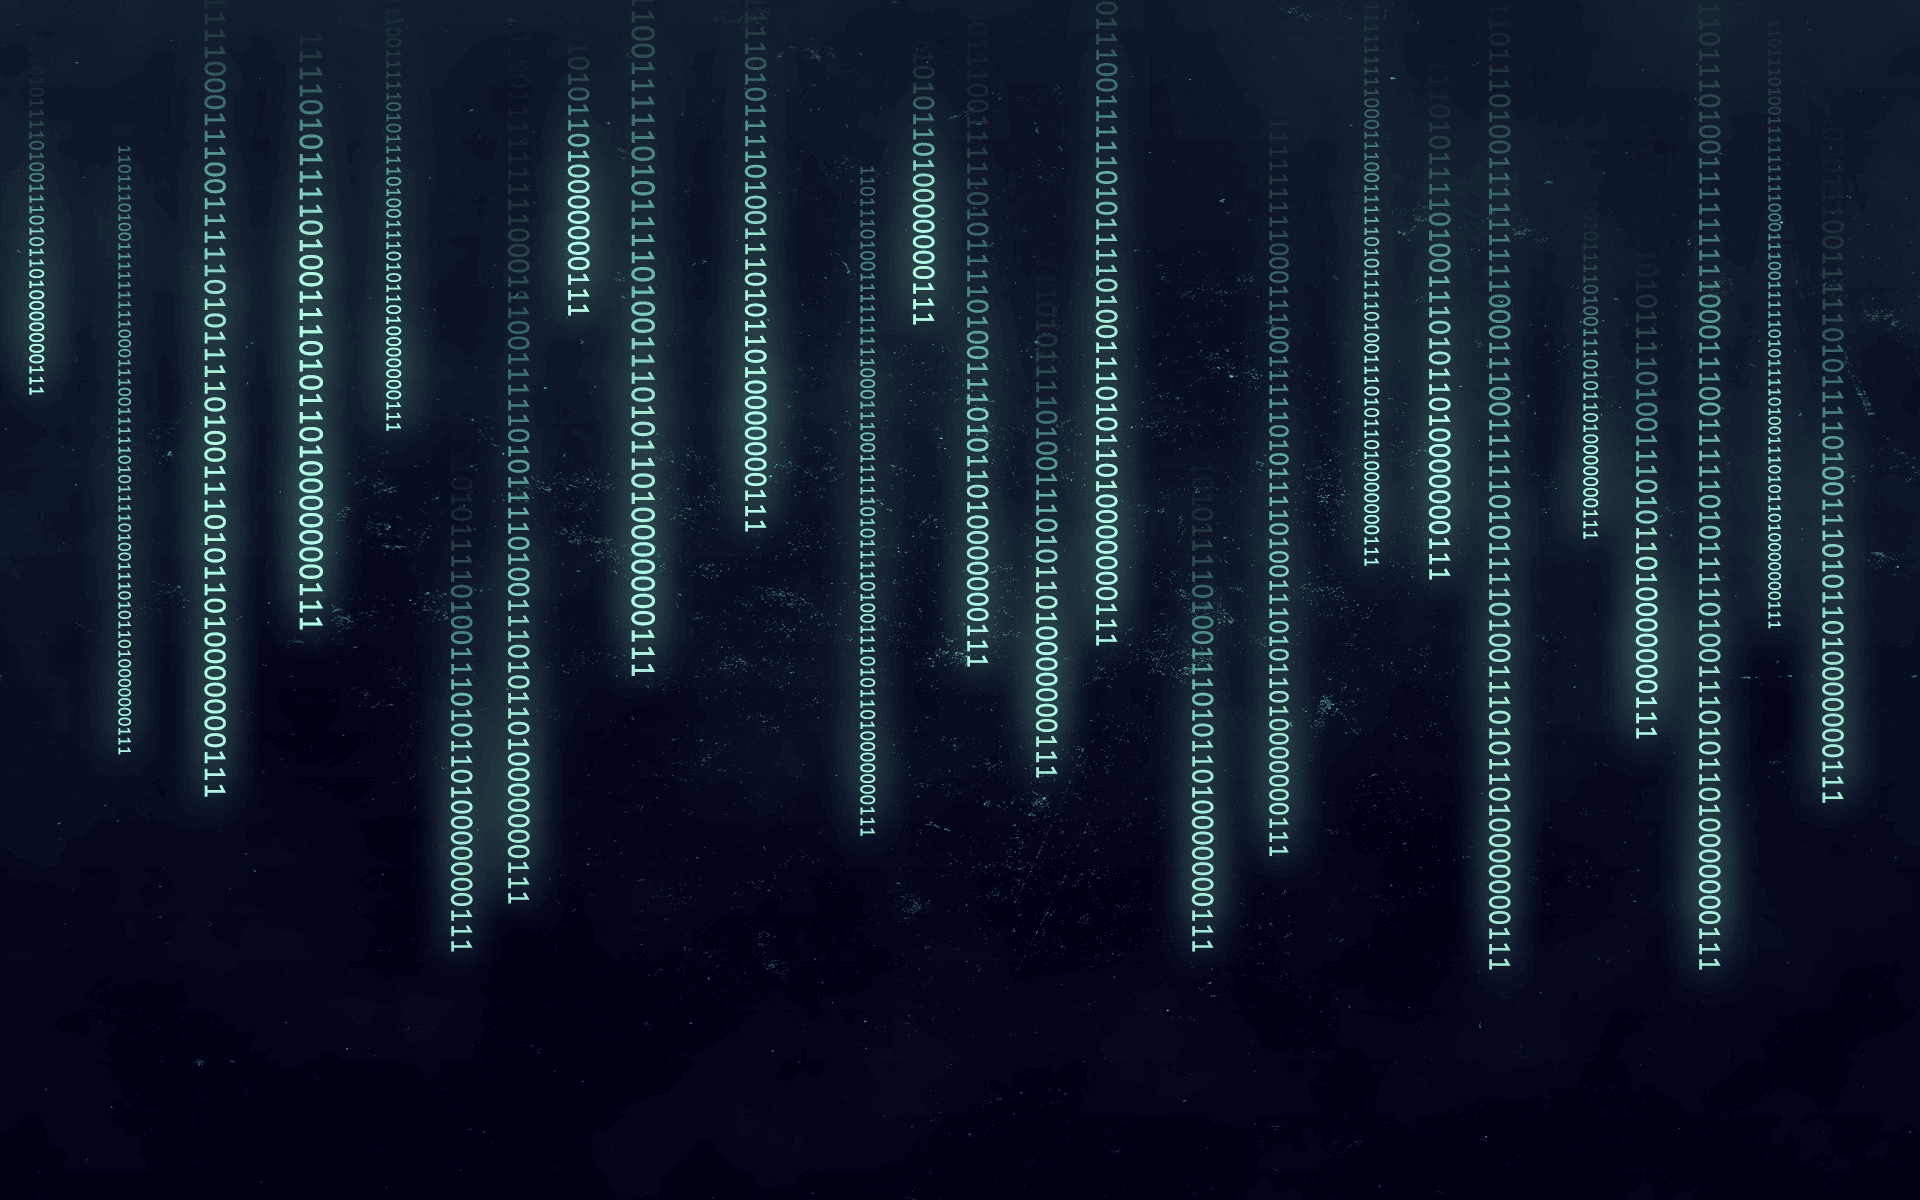
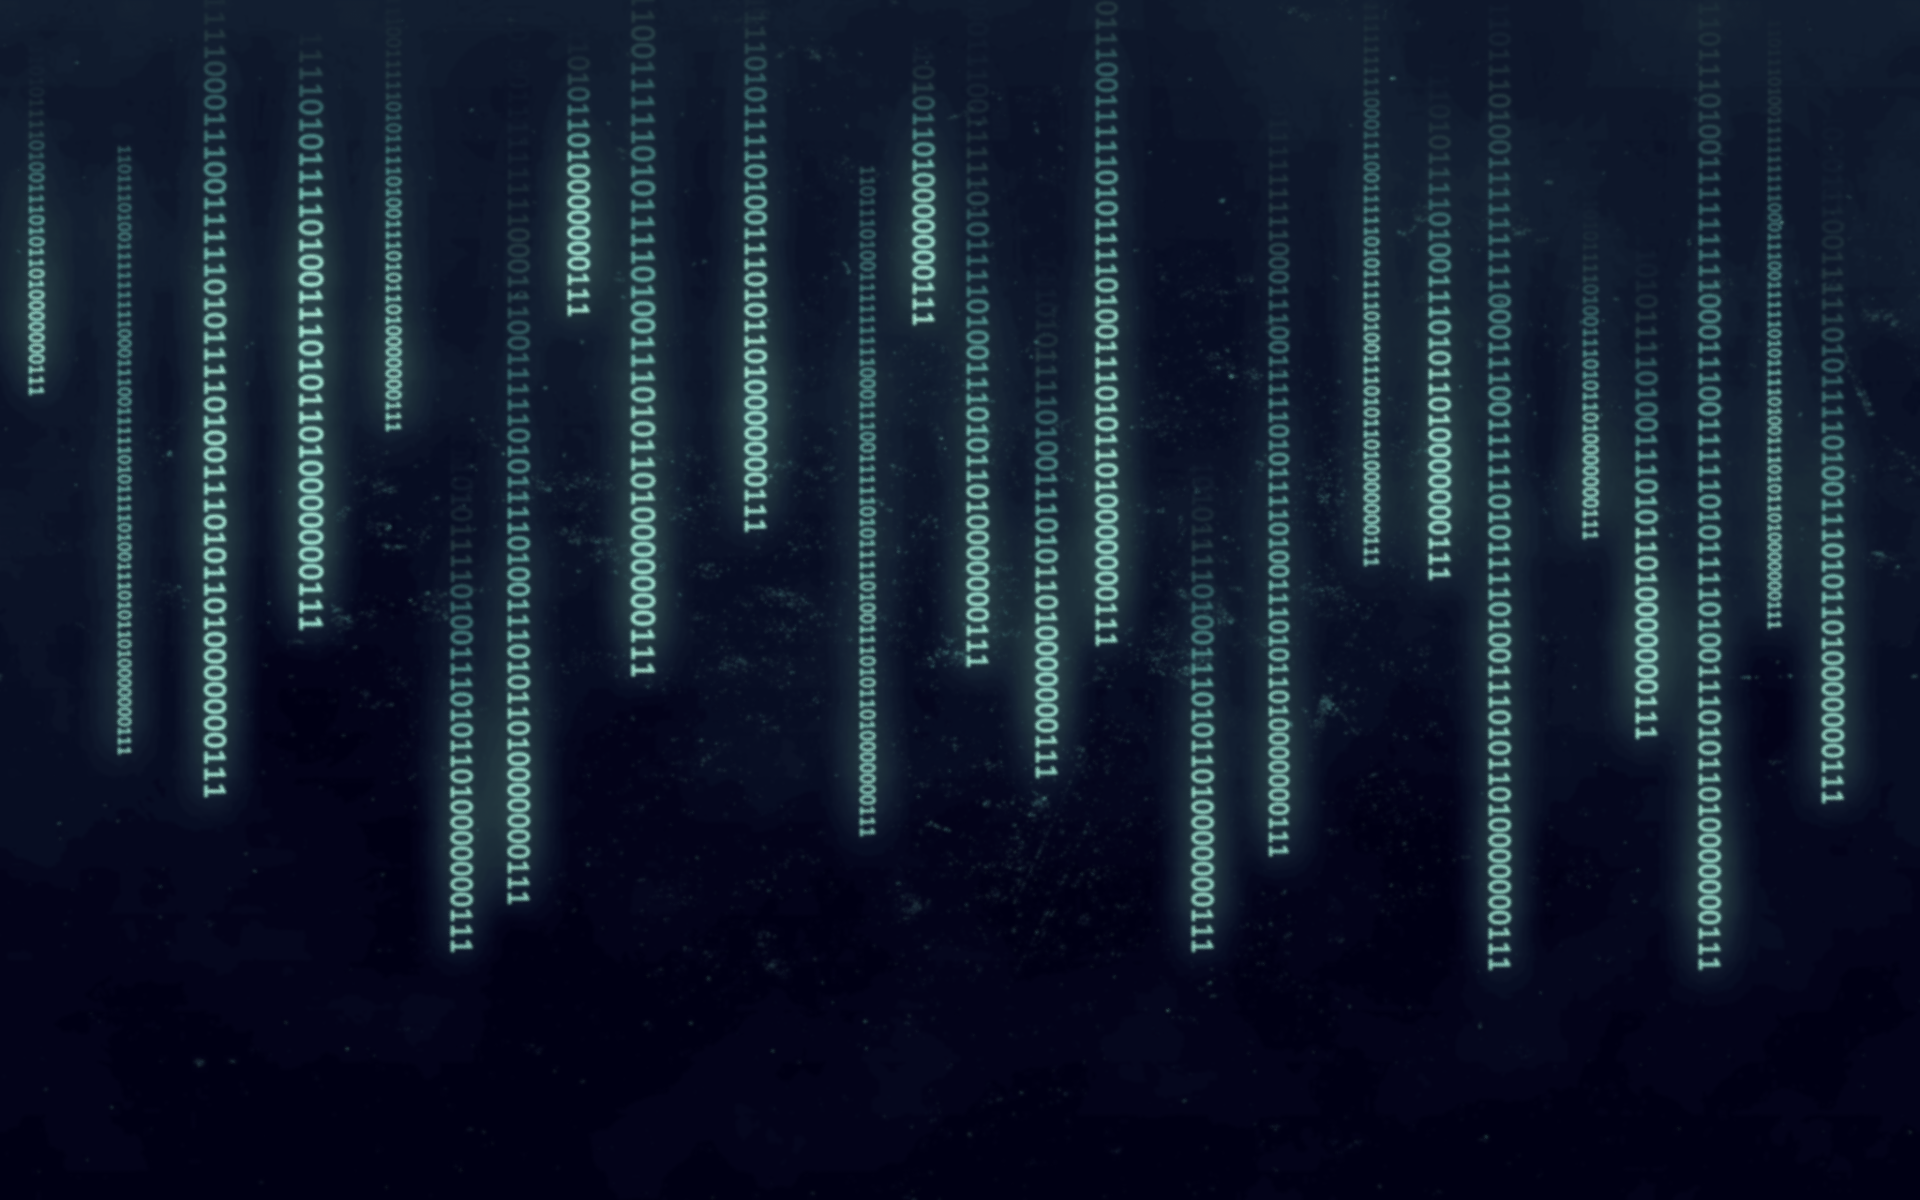
Updated code v1.2

diff --git a/static/style.css b/static/style.css
@@ -25,7 +25,7 @@ section {
 
     background: 
         linear-gradient(rgba(15,15,26,0.85), rgba(15,15,26,0.85)),
-        url("images/hero-bg4.jpg");
+        url("images/hero-bg2.jpg");
 
     background-size: cover;
     background-position: center;
